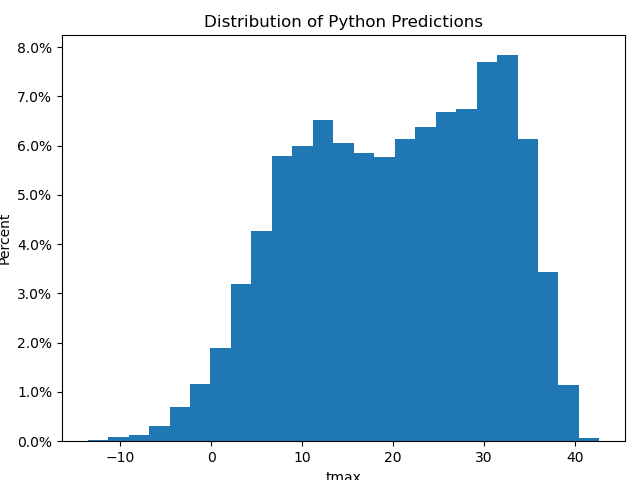
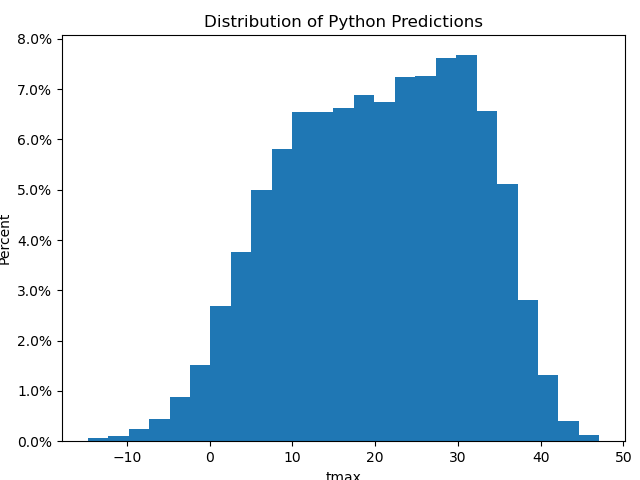
updated python plots

diff --git a/pythonScripts/regression_methods.py b/pythonScripts/regression_methods.py
@@ -360,16 +360,17 @@ def save_preds(save_path, preds, lat, lon, predictand):
     except: pass
     preds.to_netcdf(fp)
 
-def inflate_variance(mu, sigma, preds):
+def inflate_variance(mu, variance, preds):
     """
         Adds a stochastic element by sampling from a normal distribution centered at mu with spread sigma.
         Input:
               mu, mean of sampling ditribution for white noise (float)
-              sigma, variance of sampling distribution for white noise (float)
+              variance, variance of sampling distribution for white noise (float)
               preds, the raw predictions as xarray obj
         Output:
              predictions plus the stochastic elements
     """
+    sigma = math.sqrt(variance)
     stochast = np.random.normal(mu, sigma, preds.preds.shape[0])
     preds['preds'] = preds.preds + stochast
     return preds
